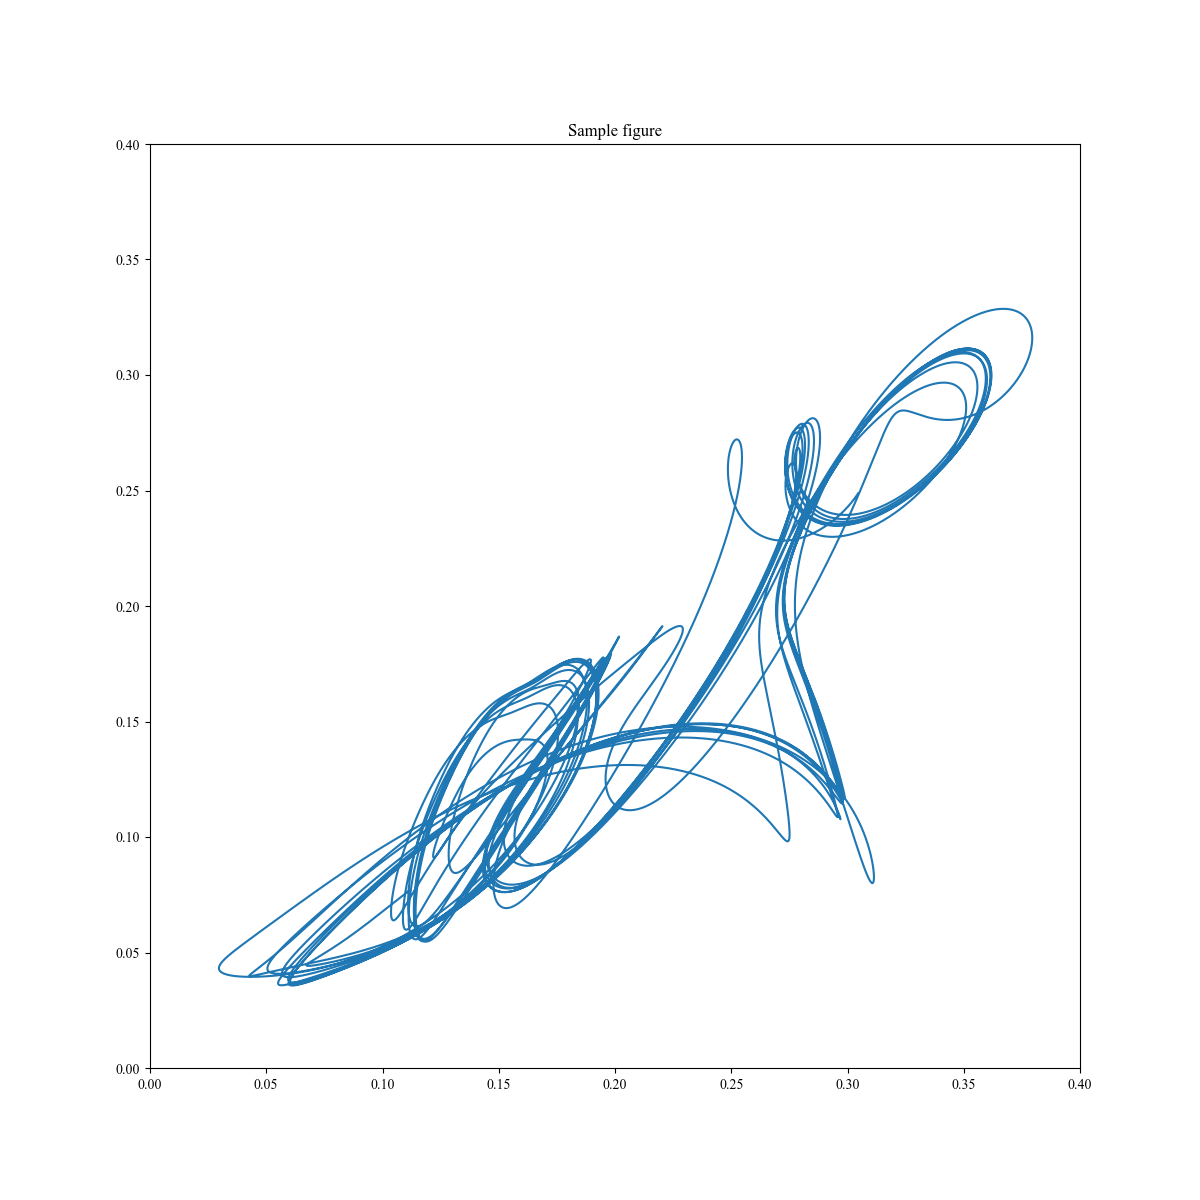
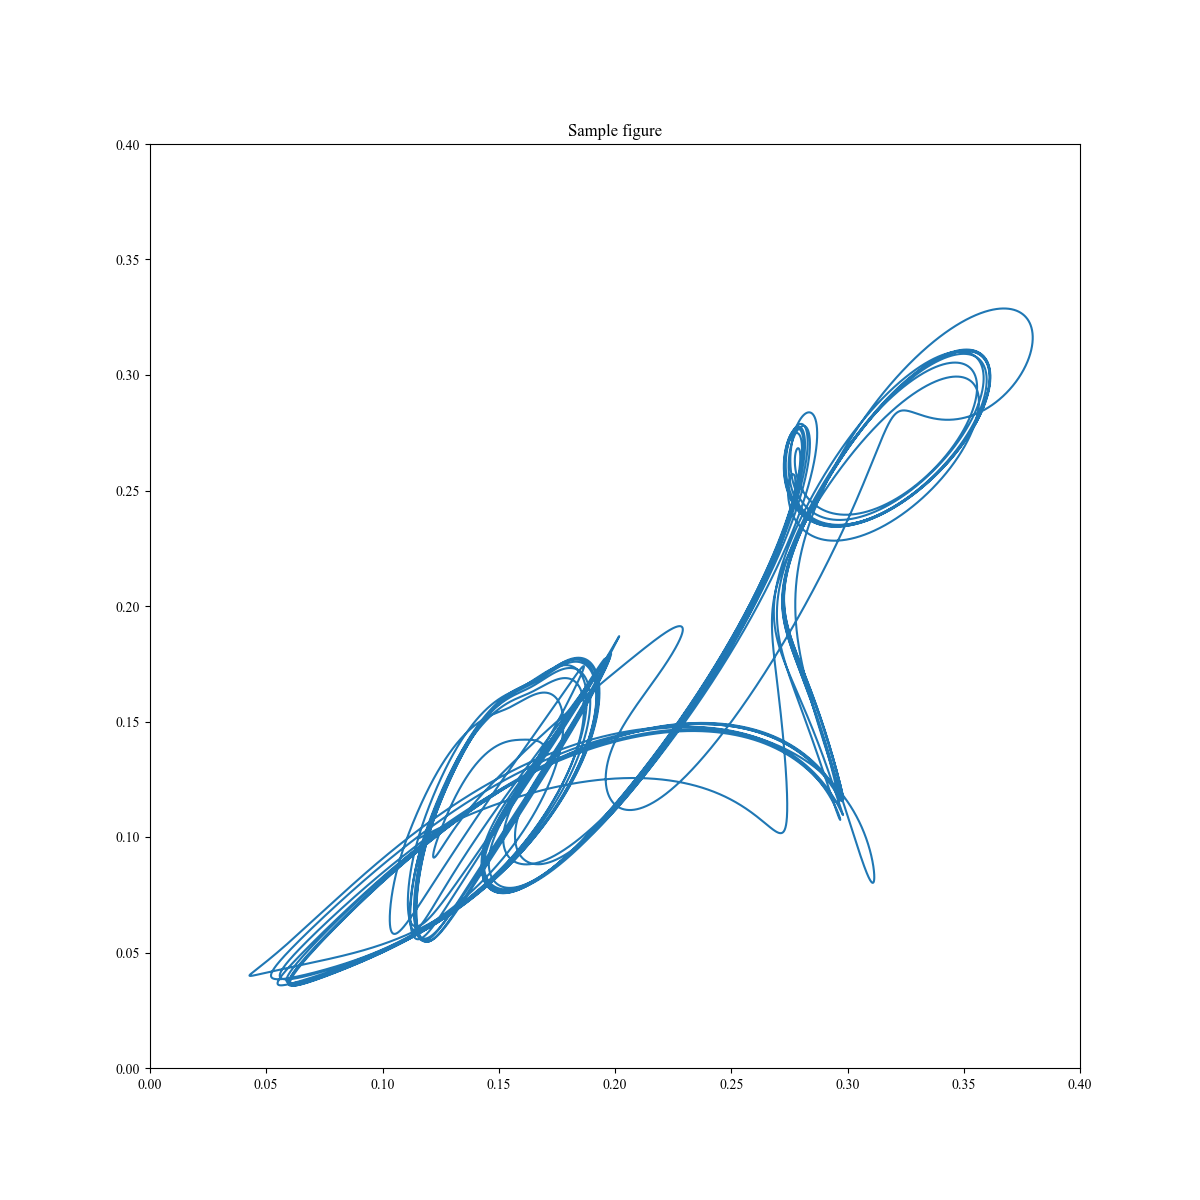
update

diff --git a/code/trajectory_observation.cpp b/code/trajectory_observation.cpp
@@ -21,7 +21,7 @@ int main(){
     double t_0 = 0;
     double t = 1000;
     double latter = 1;
-    Eigen::VectorXcd x_0 = npy2EigenVec<std::complex<double>>("../../initials/beta0.43_nu0.00018_1000period_dt0.01eps0.1.npy");
+    Eigen::VectorXcd x_0 = npy2EigenVec<std::complex<double>>("../../initials/beta0.43_nu0.00018_1000period_dt0.01eps0.05.npy");
     ShellModel solver(nu, beta, f, ddt, t_0, t, latter, x_0);
     Eigen::MatrixXcd trajectory = solver.get_trajectory_(); 
     // plot settings
